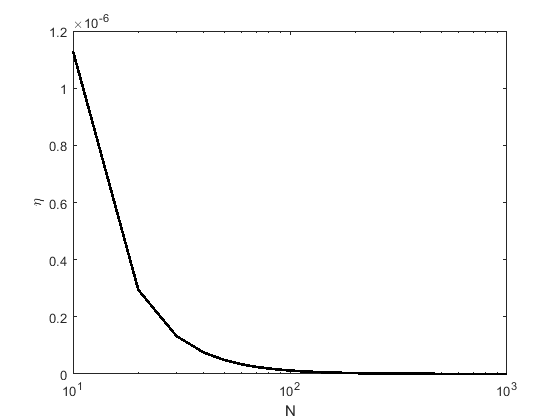
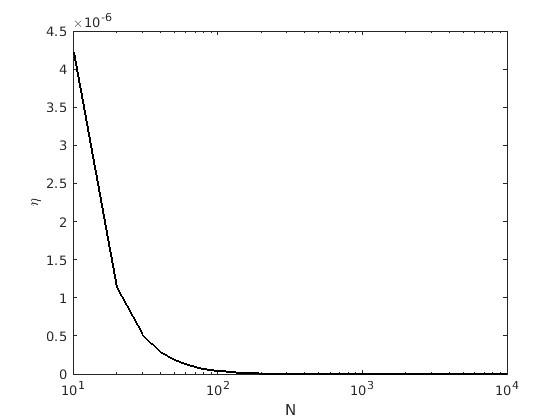
graphes de eta et gamma

diff --git a/TP_template.m b/TP_template.m
@@ -10,8 +10,8 @@ close ();
 global PRINT
 
 % EXERCICE='Exo1';
- EXERCICE='Exo2';
-% EXERCICE='Exo2b';
+% EXERCICE='Exo2';
+ EXERCICE='Exo2b';
 % EXERCICE='Exo3';
 
 figure (1);
@@ -50,9 +50,6 @@ H=[A ON  ; ON A];
  g(1)=omega*x0;
  g(N)=omega*xf;
  g(N+1:2*N)=-g0*mi*ones(N,1);
-%  for i=N+1:2*N
-%      g(i)=-g0*mi;
-%  end
  g(N+1)=g(N+1)+omega*y0;
  g(2*N)=g(2*N)+omega*yf;
  
@@ -130,7 +127,7 @@ switch EXERCICE
        
     case 'Exo2b'
         % construction des graphes pour eta et gamma
-        t_N=10:10:10000000;
+        t_N=10:10:10000;
         log_N=log(t_N);
         omega=70*(t_N+1); 
         
@@ -141,13 +138,13 @@ switch EXERCICE
         gamma=(L2N-L1)./(L2N+L1);
         eta=(1-gamma)./gamma * 10^(-4);
         
-       semilogx(t_N,gamma,'k','Linewidth',2);
-       xlabel('N');
-       ylabel('\gamma');
-        
-%        semilogx(t_N,eta,'k','Linewidth',2);
+%        semilogx(t_N,gamma,'k','Linewidth',2);
 %        xlabel('N');
-%        ylabel('\eta');  
+%        ylabel('\gamma');
+        
+       semilogx(t_N,eta,'k','Linewidth',2);
+       xlabel('N');
+       ylabel('\eta');  
         
     case 'Exo3'
         
